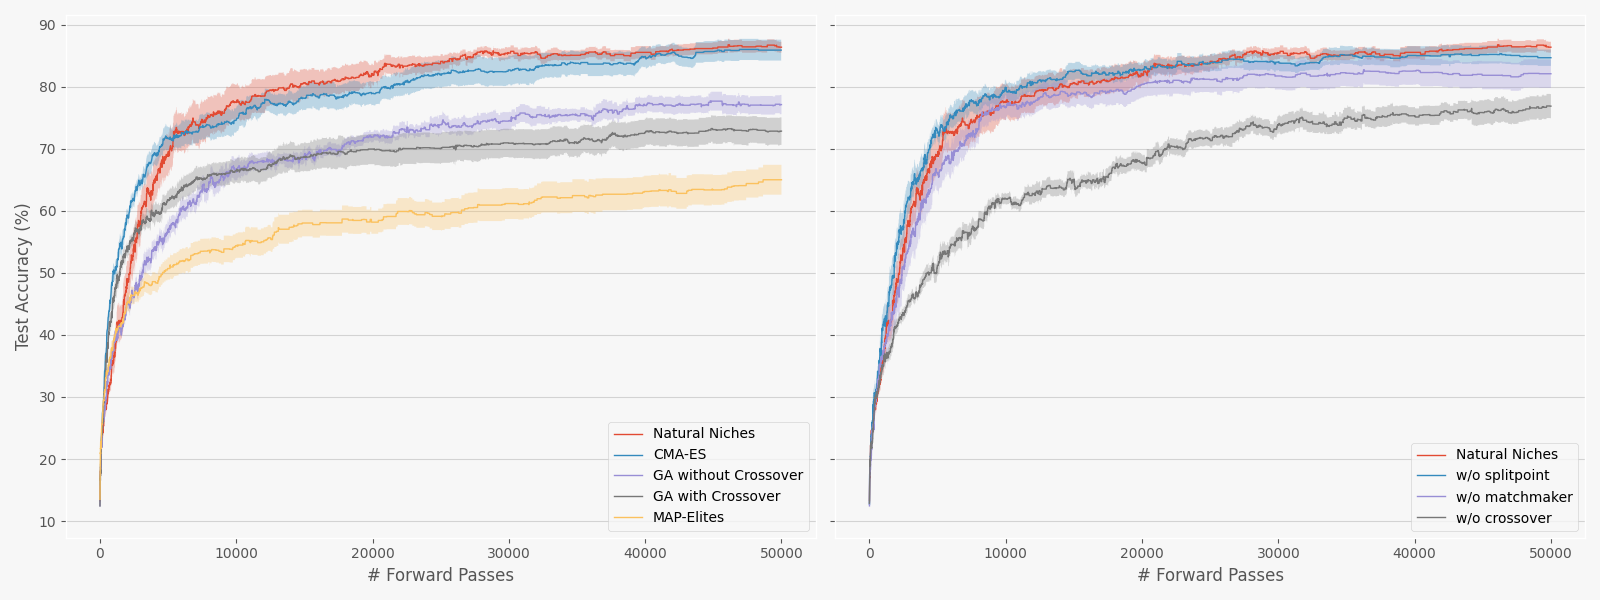
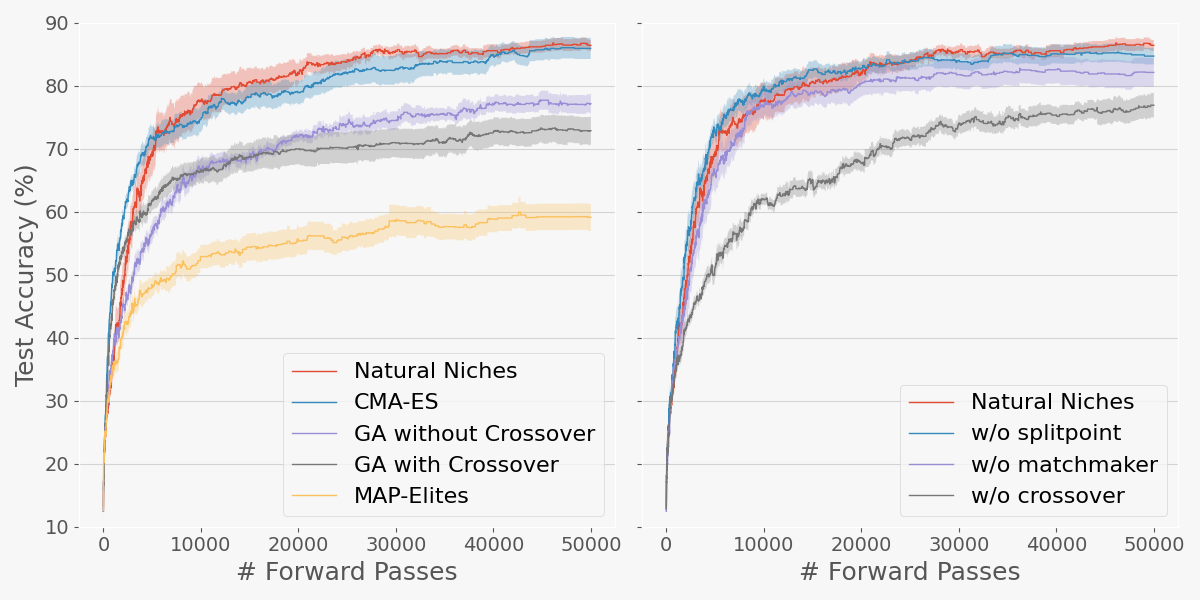
fixed map_elites by making it evaluate the new candidate

diff --git a/map_elites_fn.py b/map_elites_fn.py
@@ -9,7 +9,7 @@ from model import mlp, get_acc, num_params
 from data import load_data
 
 
-@jax.jit
+#@jax.jit
 def update_archive(
     behavior_descriptors: tuple[float, float],
     quality: float,
@@ -107,17 +107,23 @@ def run_map_elites(
             )
             quality = (bd[0] * odd_len + bd[1] * even_len) / (odd_len + even_len)
             archive, qualities, occupied = update_archive(
-                bd, quality, model, archive, qualities, occupied
+                bd, quality, child, archive, qualities, occupied
             )
 
             # log
             best_quality = jnp.max(qualities)
             result["evals"].append(step)
             if store_train_results:
-                result["train_acc"].append(best_quality)
+                result["train_values"].append(best_quality)
 
             # test
             i, j = jnp.where(qualities == best_quality)
             acc = get_acc(mlp(archive[i[0], j[0], :], x_test), y_test)
-            result["test_acc"].append(acc)
+            result["test_values"].append(acc)
+            if step % 1000 == 0:
+                print(f"Run: {run}, Step: {step}, Test Acc: {acc}, Train Acc: {best_quality}")
     return results
+
+
+if __name__ == "__main__":
+    run_map_elites(1, 10000, True)

diff --git a/main.py b/main.py
@@ -42,13 +42,23 @@ def main():
             file_name += "_no_matchmaker"
         results = run_natural_niches(**args_dict)
     elif method == "ga":
-        assert args.no_matchmaker, "GA does not use matchmaker"
+        if not args.no_matchmaker:
+            print('WARNING: GA can\'t use matchmaker. Disabling it.')
+            args_dict["no_matchmaker"] = True
+        if args.no_crossover:
+            file_name += "_no_crossover"
+        if args.no_splitpoint and not args.no_crossover:
+            file_name += "_no_splitpoint"
         results = run_natural_niches(**args_dict, alpha=0.0)
     elif method == "map_elites":
+        if args.no_crossover or args.no_splitpoint or args.no_matchmaker:
+            raise Exception("Map Elites can't use no_crossover, no_splitpoint or no_matchmaker")
         results = run_map_elites(
             args.runs, args.total_forward_passes, args.store_train_results
         )
     elif method == "cma_es":
+        if args.no_crossover or args.no_splitpoint or args.no_matchmaker:
+            raise Exception("CMA-ES can't use no_crossover, no_splitpoint or no_matchmaker")
         results = run_cma_es(
             args.runs,
             args.pop_size,
